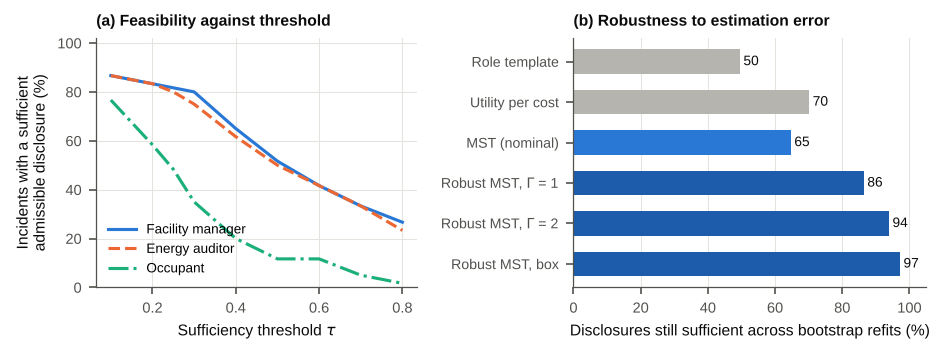
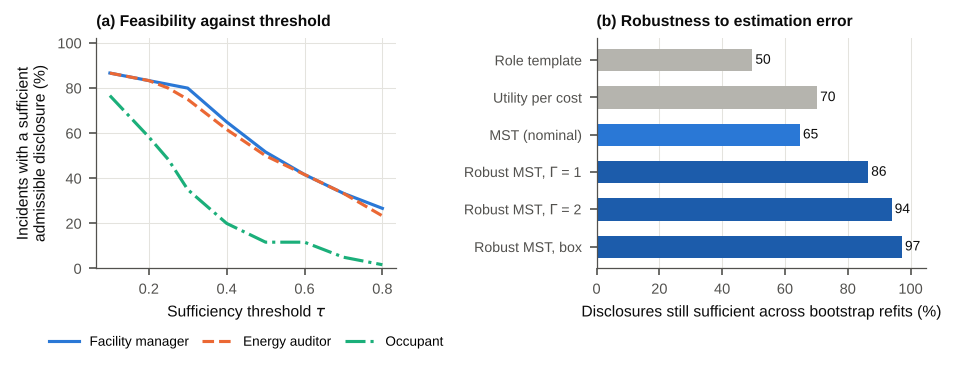
Case-study figure: legend below the plot

diff --git a/paper_scripts/make_figures.py b/paper_scripts/make_figures.py
@@ -50,7 +50,7 @@ def save(fig, name):
 def fig_case_study():
     d = pd.read_csv(CASE / "results.csv")
     nd = pd.read_csv(CASE / "nominal.csv")
-    fig, ax = plt.subplots(1, 2, figsize=(W, 2.4), gridspec_kw=dict(width_ratios=[1, 1.1]))
+    fig, ax = plt.subplots(1, 2, figsize=(W, 2.6), gridspec_kw=dict(width_ratios=[1, 1.1]))
     a = ax[0]
     for r, (lab, c, ls) in ROLE.items():
         g = d[d.role == r].groupby("tau").status.apply(lambda s: 100 * (s != "INFEASIBLE").mean())
@@ -61,7 +61,8 @@ def fig_case_study():
     a.grid(color=GRID, lw=0.5)
     a.set_axisbelow(True)
     title(a, "a", "Feasibility against threshold")
-    a.legend(loc="lower left", fontsize=6.5)
+    a.legend(loc="upper center", bbox_to_anchor=(0.5, -0.24), ncol=3, fontsize=6.5, handlelength=2.2,
+             columnspacing=1.0)
     b = ax[1]
     v = nd[nd.variant != "release"]
     rules = [("template", "Role template"), ("ratio", "Utility per cost"), ("MST", "MST (nominal)"),
